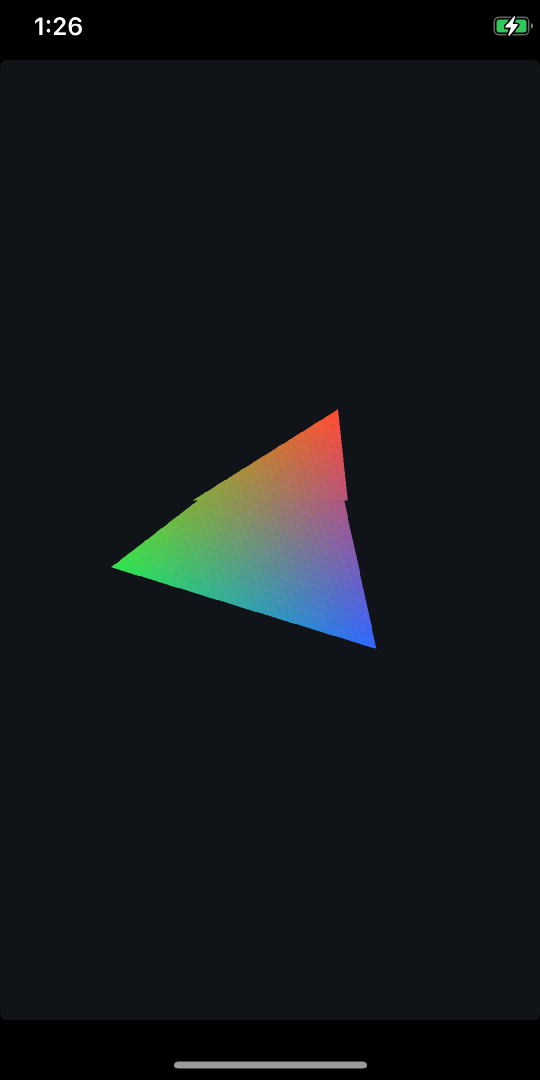
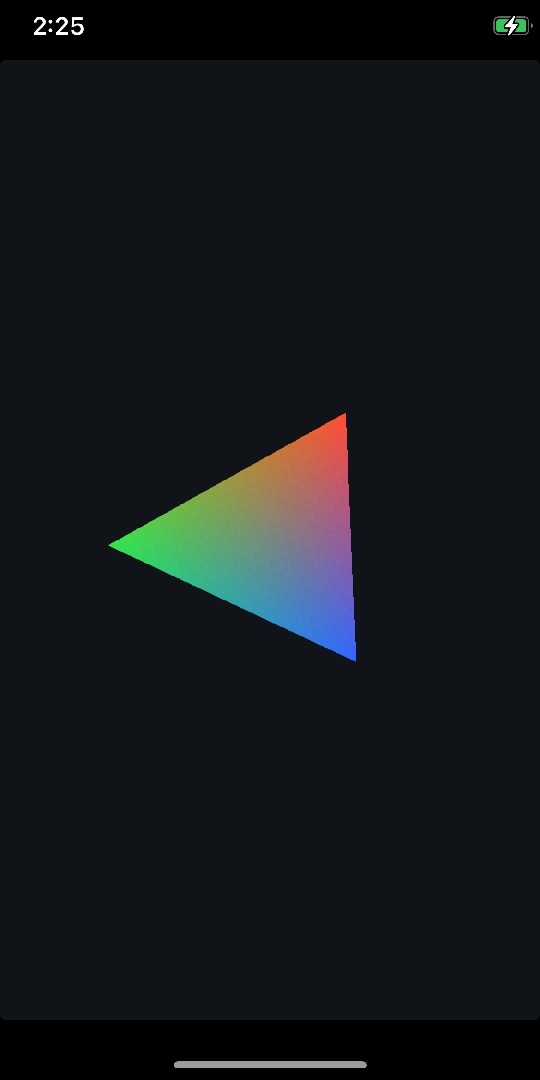
0991: backboardd composites every layer (CA_DISABLE_DETACHED=1)
A full-screen Metal app layer handed to the display was blended on the CPU (0218, 84-89 frames
per 5 s). Composited by backboardd, the frame flips without a copy: 185-191 per 5 s (mh10).
bluedetached=1 restores detached layers.

Claude-Session: https://claude.ai/code/session_01USz5YbUUM5z4rQ3vEAa28c

diff --git a/docs/LOG.md b/docs/LOG.md
@@ -853,7 +853,14 @@ The fake BlueGPU ignored queue ids; it now checks per-queue fences like the kern
 
 The screen showed it in horizontal bands of black that moved between boots (`mh1`-`mh6`), although the drawable (`getBytes`) and its IOSurface (CPU) read back whole, and the USERPTR import's pages are the surface's own (all 564 pages). backboardd hands the app's layer to the display as layer 0 (1125x2001) and its own buffer (status bar, transparent elsewhere) as layer 1. `present()` copied layers raw: layer 0 on the CPU (17 ms), then layer 1 by the GPU blit, not waited for, over the whole panel.
 
-**0218**: a layer over another is blended (premultiplied, source over) into a cacheable shadow of the panel, copied out once. Blending straight on the panel took 1.1 s a frame (`mh7`: reading the panel's mapping). Now 39-42 ms a panel copy for the two layers (`mh8`), so the app shows at ~20 fps with a tear where a drawable is reused mid-copy. Next: blend on the GPU.
+**0218**: a layer over another is blended (premultiplied, source over) into a cacheable shadow of the panel, copied out once. Blending straight on the panel took 1.1 s a frame (`mh7`: reading the panel's mapping). Now 39-42 ms a panel copy for the two layers (`mh8`), so the app shows at ~20 fps with a tear where a drawable is reused mid-copy.
+
+**0991**: backboardd always runs with `CA_DISABLE_DETACHED=1` (QuartzCore's switch), so it composites the app layer itself on the GPU and the display flips the result. `bluedetached=1` turns it off.
+
+| MetalHello on screen | shown per 5 s | panel copies |
+| --- | --- | --- |
+| detached, CPU blend (0218, `mh8`) | 84-89 | 84-89, ~40 ms each |
+| composited (0991, `mh10`) | 185-191 flips | 0 |
 
 Reinstalling over an installed copy still fails (containermanagerd `EXISTING_CONTAINER_REPLACE`); test builds were pushed into the installed bundle.
 

diff --git a/README.md b/README.md
@@ -123,8 +123,8 @@ Updated as work lands. The detail is in the [engineering log](https://github.com
    Most apps don't need Metal (their views are drawn by CoreGraphics and composited by backboardd, on GL),
    but games, Maps, WebGL and Core Image do. In order:
    1. Metal on by default in app processes (a deny-list instead of `BLUE_METAL=1`).
-   2. Tests: a Metal app draws and shows correctly (`tools/apps/metalhello`, 2026-11-25; two display layers
-      are blended on the CPU, ~20 fps: next on the GPU). Then Maps, WebGL in Safari, a SpriteKit game.
+   2. Tests: a Metal app draws and shows correctly (`tools/apps/metalhello`, 2026-11-25; ~37 fps,
+      composited by backboardd and flipped without a copy). Then Maps, WebGL in Safari, a SpriteKit game.
    3. Later: backboardd on Metal. It unlocks and pages the home screen correctly with as many frames as
       GL on the same swipes (334 vs 327-345; median 36 ms commit to complete, 14 ms recording, 18 ms GPU
       in sysmem); GL stays the compositor until it is clearly faster.
